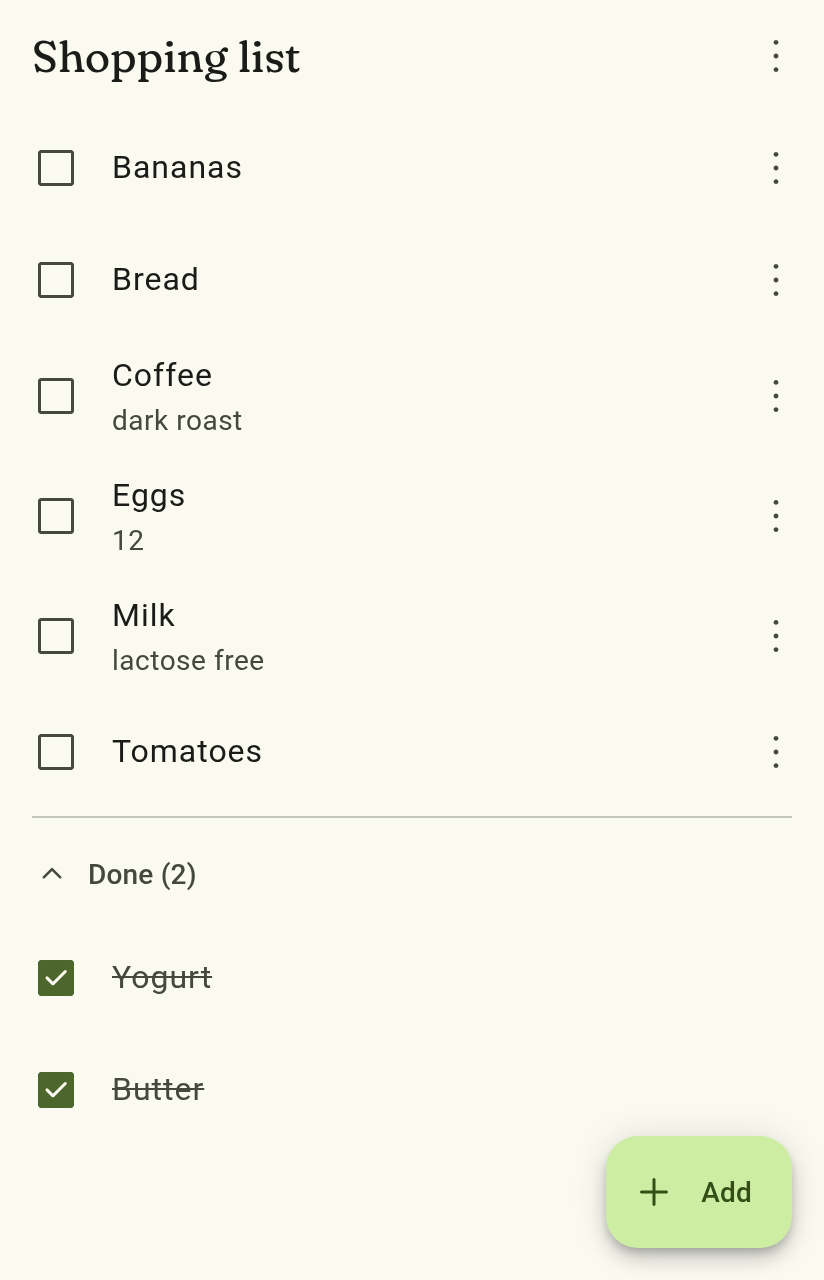
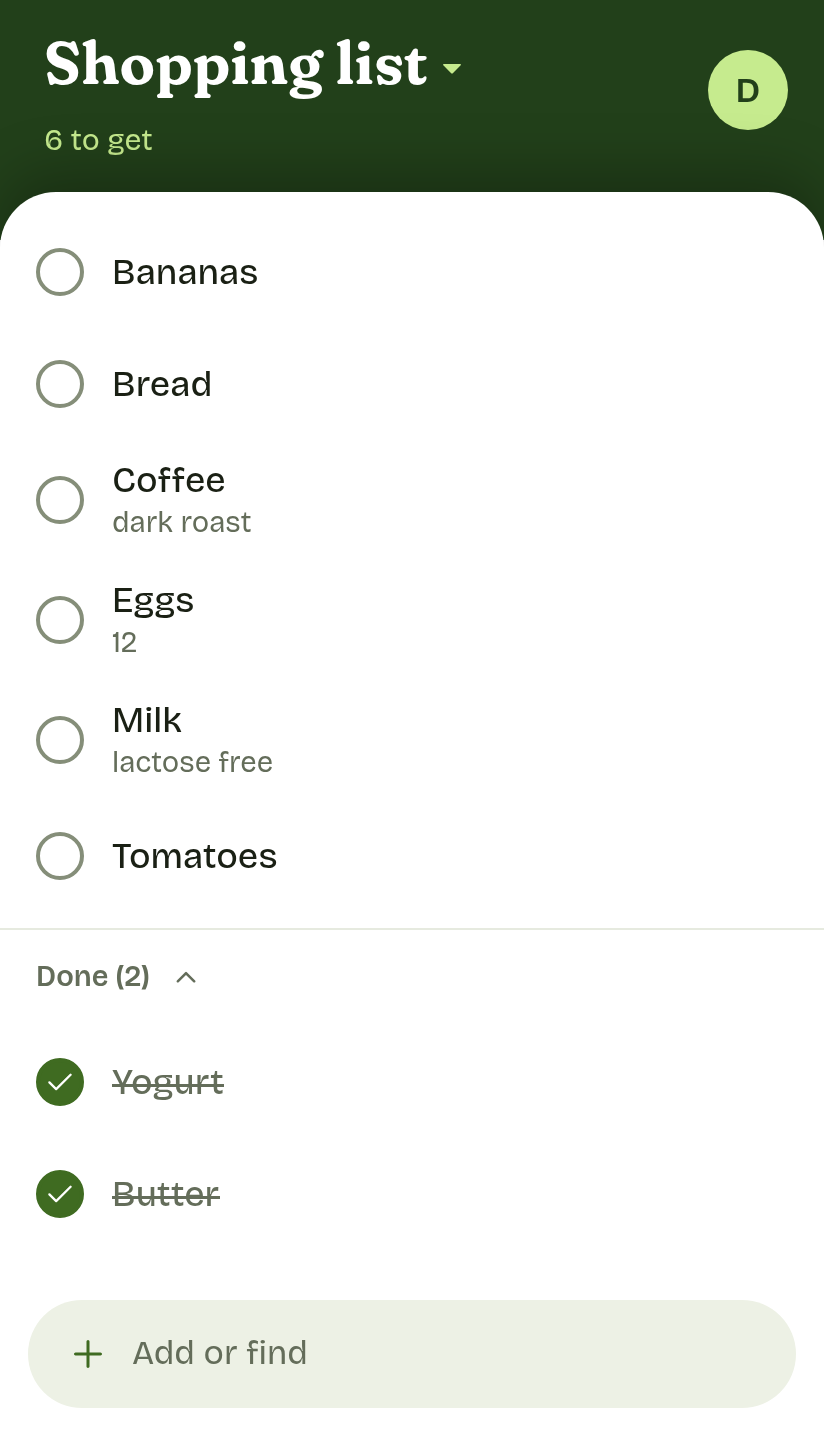
docs: screenshots of the redesign

diff --git a/scripts/screenshots.ts b/scripts/screenshots.ts
@@ -60,6 +60,8 @@ async function fill(page: Page, password: string): Promise<void> {
   await page.evaluate(() => document.fonts.ready.then(() => undefined));
   // the last click leaves a hover state on whatever moved under the pointer
   await page.mouse.move(0, 0);
+  // checking items scrolls the page; the picture starts at the band
+  await page.evaluate(() => window.scrollTo(0, 0));
 }
 
 execFileSync('npm', ['run', 'build', '-w', 'apps/web'], { stdio: 'inherit' });
@@ -88,7 +90,7 @@ try {
     ...devices['Pixel 7'],
     deviceScaleFactor: 2,
     // cropped to the list: tall enough for it, short enough to keep Add or find close
-    viewport: { width: 412, height: 640 },
+    viewport: { width: 412, height: 720 },
     locale: 'en-US',
     // `localhost` is a secure context, so Chrome keeps the Secure `__Host-` session cookie over http
     baseURL: `http://localhost:${port}`,
